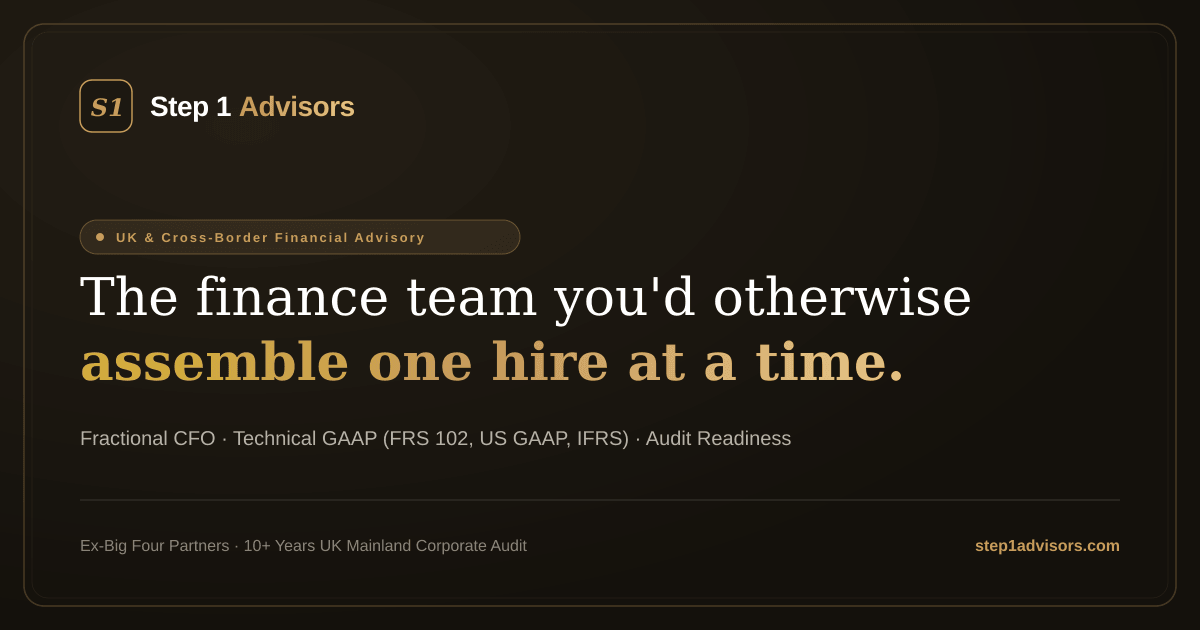
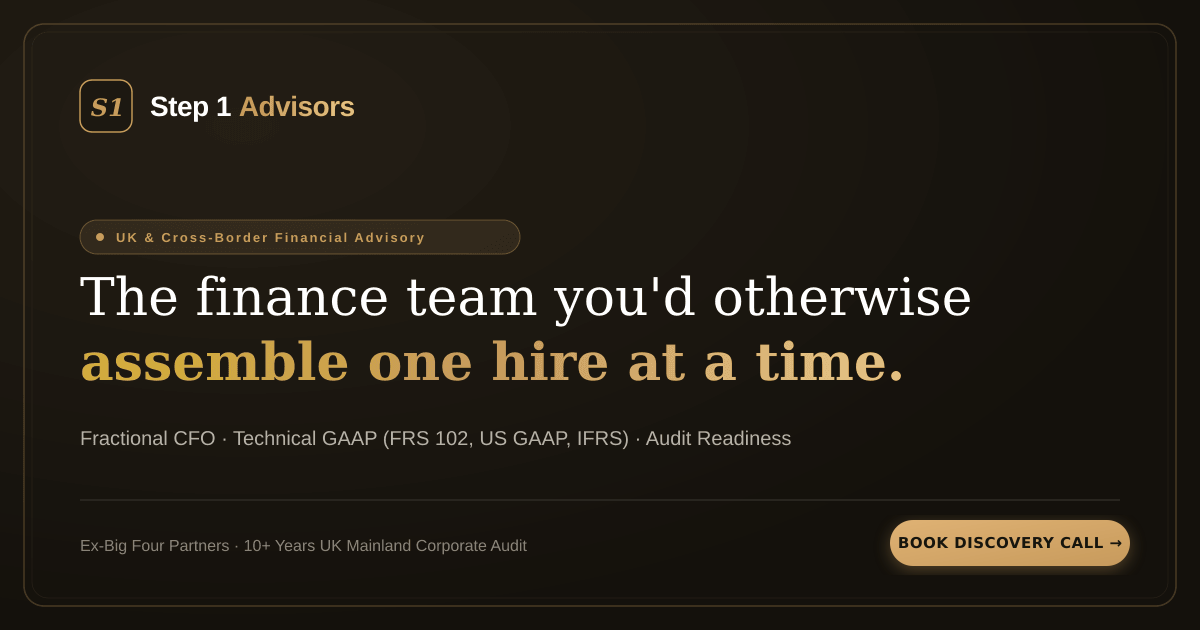
fix(seo): optimize meta tags, add og:image CTA, and add web manifest

Changed region(s): [[0.74, 0.8143, 0.9558, 0.9349]]

diff --git a/app/layout.tsx b/app/layout.tsx
@@ -1,12 +1,18 @@
 import type { Metadata, Viewport } from "next";
+import dynamic from "next/dynamic";
 import { Newsreader, Work_Sans } from "next/font/google";
 import SmoothScrollProvider from "@/components/SmoothScrollProvider";
-import FloatingCalendlyButton from "@/components/FloatingCalendlyButton";
-import FloatingCalculatorButton from "@/components/FloatingCalculatorButton";
 import MicrosoftClarity from "@/components/MicrosoftClarity";
 import GoogleAnalytics from "@/components/GoogleAnalytics";
 import { PRODUCT_NAME, SITE_URL } from "@/lib/config";
 import "./globals.css";
+
+const FloatingCalendlyButton = dynamic(
+  () => import("@/components/FloatingCalendlyButton")
+);
+const FloatingCalculatorButton = dynamic(
+  () => import("@/components/FloatingCalculatorButton")
+);
 
 const newsreader = Newsreader({
   subsets: ["latin"],
@@ -31,11 +37,12 @@ export const viewport: Viewport = {
 export const metadata: Metadata = {
   metadataBase: new URL(SITE_URL),
   title: {
-    default: "Fractional CFO, Technical GAAP & Audit Advisory | Step 1",
+    default: "Fractional CFO, GAAP & Audit Advisory | Step 1 Advisors",
     template: `%s | ${PRODUCT_NAME}`,
   },
   description:
-    "Outsourced financial leadership, US GAAP/IFRS technical memos, and audit readiness for cross-border companies. Delivered by ex-Big 4 partners.",
+    "Outsourced CFO, US GAAP/IFRS memos, and audit readiness for cross-border companies. Delivered by ex-Big 4 partners.",
+  manifest: "/site.webmanifest",
   keywords: [
     "Fractional CFO",
     "GAAP Advisory",
@@ -65,23 +72,25 @@ export const metadata: Metadata = {
     locale: "en_US",
     url: SITE_URL,
     siteName: PRODUCT_NAME,
-    title: "Fractional CFO, Technical GAAP & Audit Advisory | Step 1 Advisors",
+    title: "Fractional CFO, GAAP & Audit Advisory | Step 1 Advisors",
     description:
-      "Outsourced financial leadership, US GAAP/IFRS technical memos, and audit readiness for cross-border companies. Delivered by ex-Big 4 partners.",
+      "Outsourced CFO, US GAAP/IFRS memos, and audit readiness for cross-border companies. Delivered by ex-Big 4 partners.",
     images: [
       {
         url: `${SITE_URL}/og-image.png`,
         width: 1200,
         height: 630,
-        alt: "Step 1 Advisors — Fractional CFO, GAAP Advisory, Tax & Audit",
+        alt: "Step 1 Advisors — Fractional CFO, GAAP Advisory & Audit Readiness. Book Discovery Call at step1advisors.com",
       },
     ],
   },
   twitter: {
     card: "summary_large_image",
-    title: "Fractional CFO, Technical GAAP & Audit Advisory | Step 1 Advisors",
+    site: "@step1advisors",
+    creator: "@step1advisors",
+    title: "Fractional CFO, GAAP & Audit Advisory | Step 1 Advisors",
     description:
-      "Outsourced financial leadership, US GAAP/IFRS technical memos, and audit readiness for cross-border companies.",
+      "Outsourced CFO, US GAAP/IFRS memos, and audit readiness for cross-border companies. Delivered by ex-Big 4 partners.",
     images: [`${SITE_URL}/og-image.png`],
   },
   robots: {

diff --git a/app/page.tsx b/app/page.tsx
@@ -1,10 +1,10 @@
+import dynamic from "next/dynamic";
 import Header from "@/components/Header";
 import Hero from "@/components/Hero";
 import CredentialsTicker from "@/components/CredentialsTicker";
 import Services from "@/components/Services";
 import Process from "@/components/Process";
 import WhyUs from "@/components/WhyUs";
-import SavingsCalculator from "@/components/SavingsCalculator";
 import Industries from "@/components/Industries";
 import Leadership from "@/components/Leadership";
 import FAQ from "@/components/FAQ";
@@ -12,6 +12,32 @@ import Contact from "@/components/Contact";
 import Footer from "@/components/Footer";
 import { FAQ_ITEMS } from "@/data/faq";
 import { PRODUCT_NAME, SITE_URL, CONTACT_EMAIL } from "@/lib/config";
+
+const SavingsCalculator = dynamic(
+  () => import("@/components/SavingsCalculator"),
+  {
+    loading: () => (
+      <section
+        id="savings-calculator"
+        className="relative bg-card py-24 lg:py-32 text-foreground overflow-hidden min-h-125"
+      >
+        <div className="mx-auto w-full max-w-7xl px-4 sm:px-8">
+          <div className="max-w-3xl">
+            <p className="font-display text-xs sm:text-sm uppercase tracking-[0.25em] text-secondary">
+              Cost Comparison
+            </p>
+            <h2 className="mt-4 font-display text-3xl font-medium tracking-tight sm:text-4xl lg:text-5xl leading-tight text-foreground">
+              Savings up to 66% vs. in-house hiring
+            </h2>
+            <p className="mt-4 text-base sm:text-lg text-foreground/75 leading-relaxed font-light">
+              Check your finance needs and compare the cost of a full-time in-house hire against our dedicated advisory pod.
+            </p>
+          </div>
+        </div>
+      </section>
+    ),
+  }
+);
 
 export default function Home() {
   const jsonLd = {

diff --git a/app/manifest.ts b/app/manifest.ts
@@ -1,0 +1,26 @@
+import type { MetadataRoute } from "next";
+
+export default function manifest(): MetadataRoute.Manifest {
+  return {
+    name: "Step 1 Advisors",
+    short_name: "Step 1",
+    description:
+      "Fractional CFO, Technical GAAP & Audit Advisory for cross-border companies.",
+    start_url: "/",
+    display: "standalone",
+    background_color: "#17140f",
+    theme_color: "#17140f",
+    icons: [
+      {
+        src: "/icon.png",
+        sizes: "32x32",
+        type: "image/png",
+      },
+      {
+        src: "/apple-icon.png",
+        sizes: "180x180",
+        type: "image/png",
+      },
+    ],
+  };
+}
